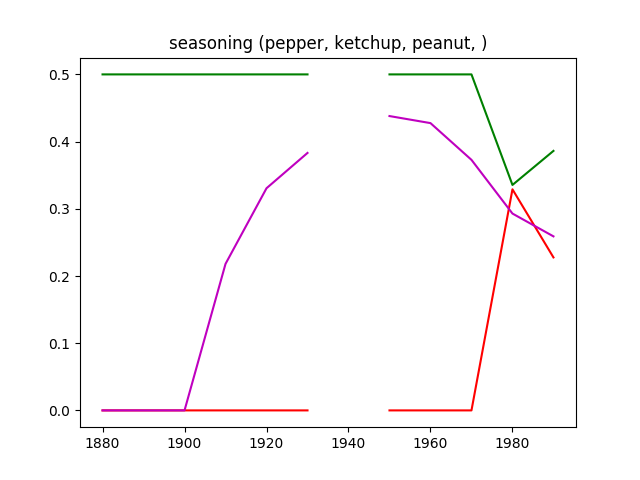
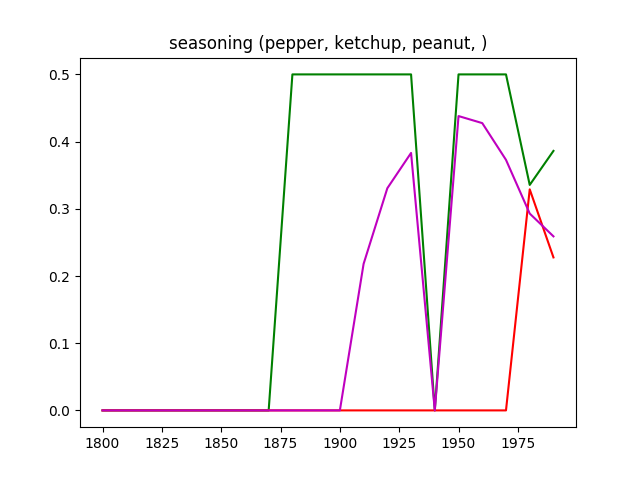
plot context relevant scores for individual graphs

diff --git a/stimWordLineGraphs.py b/stimWordLineGraphs.py
@@ -58,7 +58,6 @@ def getContextSimScoreDenom(startDecade, endDecade, wordPairsList, real_embeddin
             stimWordDenomMap[triplet][year] = yearSum
     
     return stimWordDenomMap
-
         
 def plotIndividualLines(startDecade, endDecade, averaged=False, contextRelevant=False):
     cosDenom = 0
@@ -70,6 +69,8 @@ def plotIndividualLines(startDecade, endDecade, averaged=False, contextRelevant=
     stimWordDenomMap = {}
     if contextRelevant == True:
         stimWordDenomMap = getContextSimScoreDenom(startDecade, endDecade, wordPairsList, real_embeddings)
+
+    allHighVals, allLowVals, allInconVals = [], [], []
     for wordList in wordPairsList:
         if len(wordList) < 4:
             continue
@@ -87,8 +88,12 @@ def plotIndividualLines(startDecade, endDecade, averaged=False, contextRelevant=
                 nextHigh = (sum(highVals) + sim)/(len(highVals) + 1)
                 highVals.append(nextHigh)
             elif contextRelevant:
-                nextHigh = sim/stimWordDenomMap[triplet][sim_year]
+                if stimWordDenomMap[triplet][sim_year] != 0:
+                    nextHigh = sim/stimWordDenomMap[triplet][sim_year]
+                else:
+                    nextHigh = 0.0
                 highVals.append(nextHigh)
+
             else:
                 highVals.append(sim)
         
@@ -97,7 +102,10 @@ def plotIndividualLines(startDecade, endDecade, averaged=False, contextRelevant=
                 nextLow = (sum(lowVals) + sim)/(len(lowVals) + 1)
                 lowVals.append(nextLow)
             elif contextRelevant:
-                nextLow = sim/stimWordDenomMap[triplet][sim_year]
+                if stimWordDenomMap[triplet][sim_year] != 0:
+                    nextLow = sim/stimWordDenomMap[triplet][sim_year]
+                else:
+                    nextLow = 0.0
                 lowVals.append(nextLow)
             else:
                 lowVals.append(sim)
@@ -107,7 +115,10 @@ def plotIndividualLines(startDecade, endDecade, averaged=False, contextRelevant=
                 nextIncon = (sum(inconVals) + sim)/(len(inconVals) + 1)
                 inconVals.append(nextIncon)
             elif contextRelevant:
-                nextIncon = sim/stimWordDenomMap[triplet][sim_year]
+                if stimWordDenomMap[triplet][sim_year] != 0:
+                    nextIncon = sim/stimWordDenomMap[triplet][sim_year]
+                else:
+                    nextIncon = 0.0
                 inconVals.append(nextIncon)
             else:
                 inconVals.append(sim)
@@ -127,6 +138,22 @@ def plotIndividualLines(startDecade, endDecade, averaged=False, contextRelevant=
         plt.title(plotTitle)
         plt.savefig(plotFileName)
         plt.close()
+    
+        allHighVals.append(highVals)
+        allLowVals.append(lowVals)
+        allInconVals.append(inconVals)
+    
+    # plt.figure()
+    # for i in range(len(allHighVals)):
+    #     plt.plot(years, allHighVals[i], 'g')
+    #     plt.plot(years, allLowVals[i], 'r')
+    #     plt.plot(years, allInconVals[i], 'm')
+    
+    # plotTitle = "Context Relevant Change In Sim Scores"
+    # plotFileName = "test.png"
+    # plt.title(plotTitle)
+    # plt.savefig(plotFileName)
+    # plt.close()
+
         
-        
-plotIndividualLines(startDecade=1800, endDecade=2000, averaged=False, contextRelevant=True)
+plotIndividualLines(startDecade=1800, endDecade=2000)
